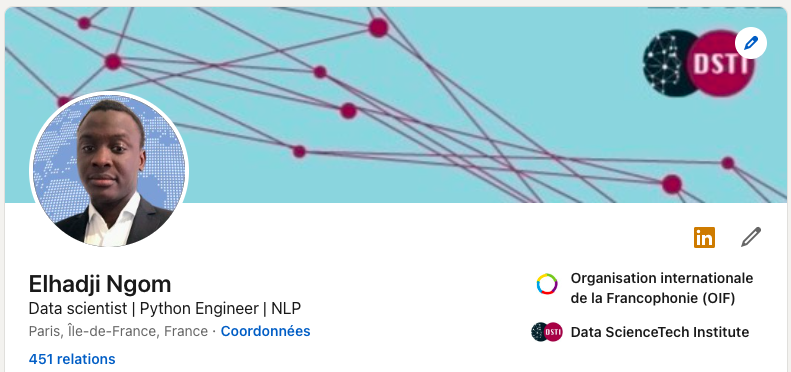
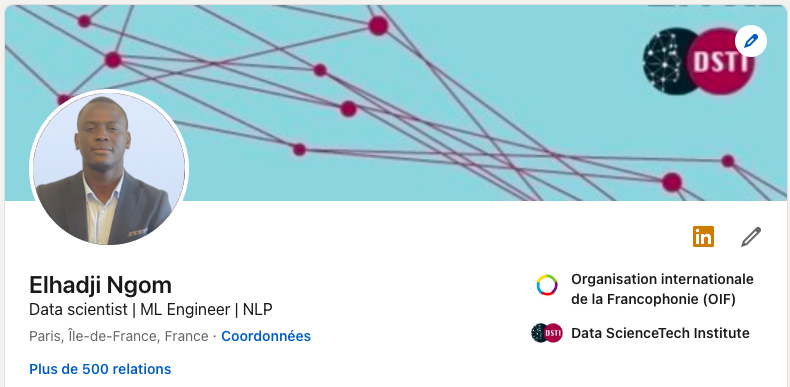
bg color

diff --git a/website_app.py b/website_app.py
@@ -56,7 +56,7 @@ st.markdown("""
         </style>
         """, unsafe_allow_html=True)
 
-st.markdown(f"<h1 style='text-align: center; color: #0000FF;'>{page_title}</h1>",
+st.markdown(f"<h1 style='text-align: center; color: #F39C12;'>{page_title}</h1>",
             unsafe_allow_html=True) # #000080
 
 
@@ -138,7 +138,7 @@ def main():
                              icons=['house', 'bar-chart-line', 'app-indicator', 'person lines fill'],
                              menu_icon="list", default_index=0,
                              styles={
-            "container": {"padding": "5!important", "background-color": "#4D4B48"}, # "#fafafa"
+            "container": {"padding": "5!important", "background-color": "#1c1c1e"}, # "#fafafa"
             "icon": {"color": "blue", "font-size": "25px"},
             "nav-link": {"font-size": "16px", "text-align": "left", "margin":"0px", "--hover-color": "#eee"},
             "nav-link-selected": {"background-color": "#24A608"},
@@ -151,7 +151,7 @@ def main():
         col1, col2 = st.columns([0.8, 0.2])
         with col1:               # To display the header text using css style
             st.markdown(""" <style> .font {
-            font-size:35px ; font-family: 'Cooper Black'; color: #0000FF;}
+            font-size:35px ; font-family: 'Cooper Black'; color: #F39C12;}
             </style> """, unsafe_allow_html=True)
             job_title = "Data scientist | ML Engineer | NLP"
             st.markdown(f"<h2 class='font'>{job_title}</h2>", unsafe_allow_html=True)
